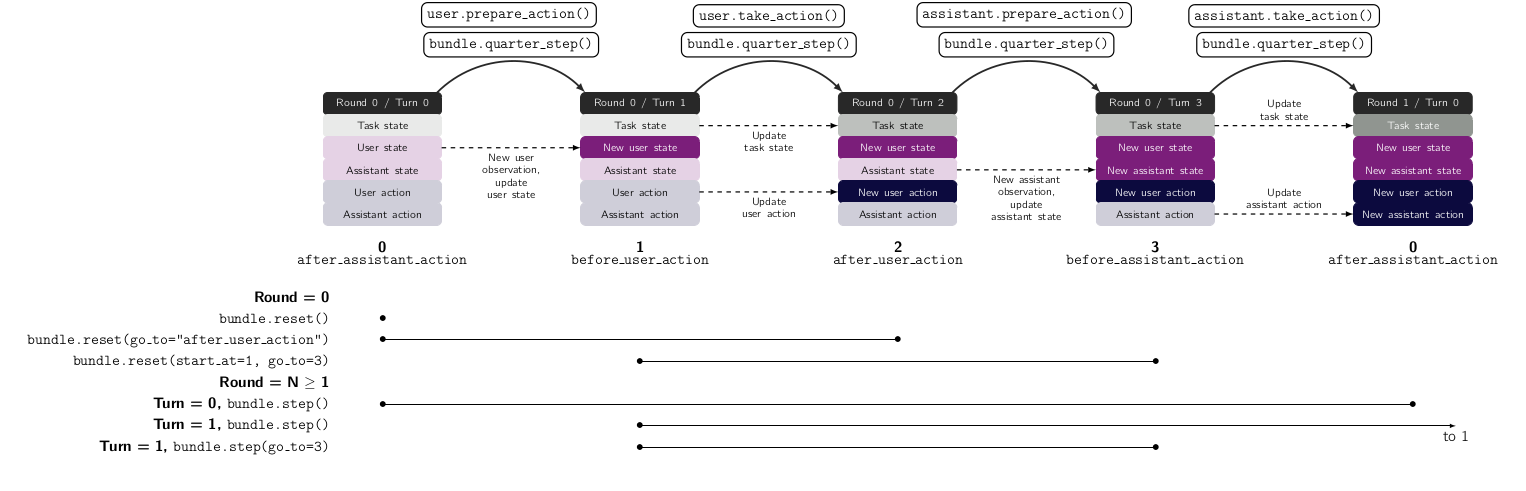
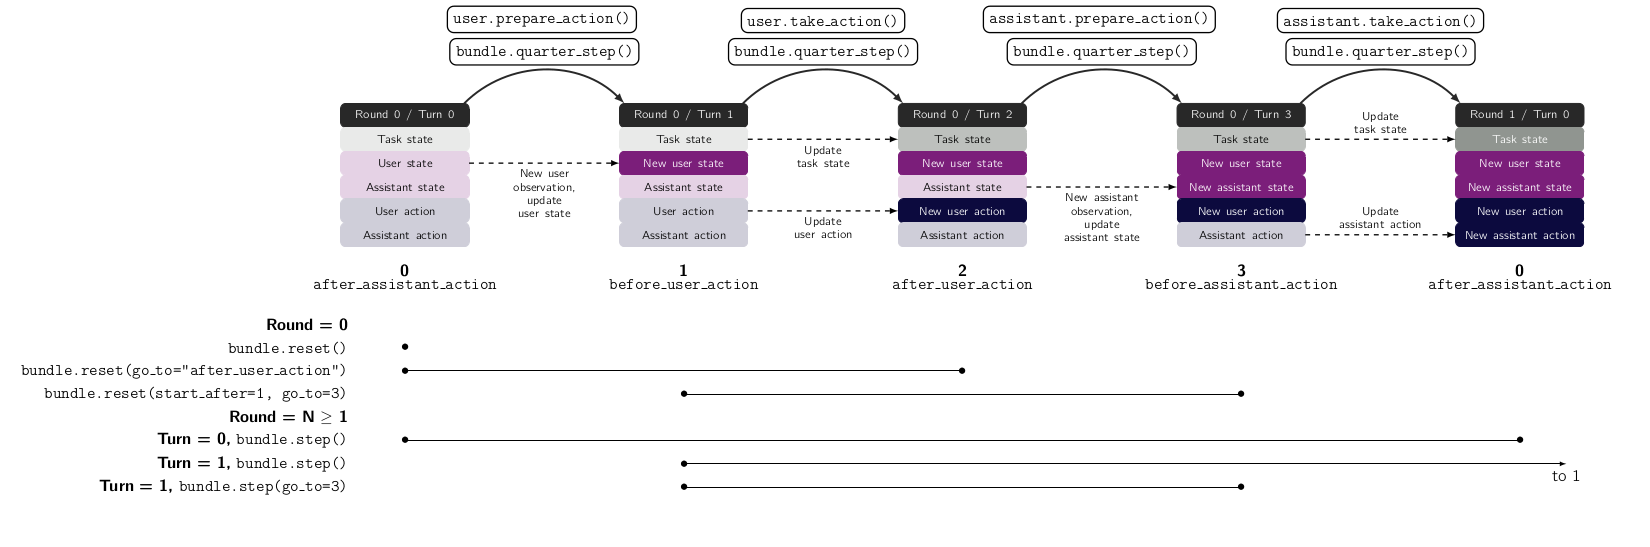
start_at renamed to start_after

diff --git a/coopihc/bundle/BaseBundle.py b/coopihc/bundle/BaseBundle.py
@@ -162,7 +162,7 @@ class BaseBundle:
     def reset(
         self,
         go_to=0,
-        start_at=0,
+        start_after=0,
         task=True,
         user=True,
         assistant=True,
@@ -196,8 +196,8 @@ class BaseBundle:
 
         :param turn: game turn number. Can also be set globally at the bundle level by passing the "reset_turn" keyword argument, defaults to 0
         :type turn: int, optional
-        :param start_at: which turn to start at (allows skipping some turns during reset), defaults to 0
-        :type start_at: int, optional
+        :param start_after: which turn to start at (allows skipping some turns during reset), defaults to 0
+        :type start_after: int, optional
         :param task: reset task?, defaults to True
         :type task: bool, optional
         :param user: reset user?, defaults to True
@@ -215,7 +215,7 @@ class BaseBundle:
         go_to = self.kwargs.get("reset_go_to", go_to)
         # skip_user_action = self.kwargs.get("reset_skip_user_action", skip_user_action)
         # if skip_user_action:
-        # start_at = 2
+        # start_after = 2
         random_reset = self.kwargs.get("random_reset", random_reset)
         # =============
 
@@ -244,26 +244,25 @@ class BaseBundle:
 
         if not isinstance(go_to, (numpy.integer, int)):
             go_to = self.turn_dict[go_to]
-        if not isinstance(start_at, (numpy.integer, int)):
-            start_at = self.turn_dict[start_at]
+        if not isinstance(start_after, (numpy.integer, int)):
+            start_after = self.turn_dict[start_after]
 
         self.turn_number = go_to
 
-        # go_to = max(go_to, start_at)
-        if go_to == 0 and start_at == 0:
+        if go_to == 0 and start_after + 1 == 0:
             return self.game_state
-        if start_at <= go_to:
-            if go_to >= 1 and start_at <= 1:
+        if start_after <= go_to:
+            if go_to >= 1 and start_after + 1 <= 1:
                 self._user_first_half_step()
-            if go_to >= 2 and start_at <= 2:
+            if go_to >= 2 and start_after + 1 <= 2:
                 user_action, _ = self.user.take_action(increment_turn=False)
                 self.user.action = user_action
                 self._user_second_half_step(user_action)
-            if go_to >= 3 and start_at <= 3:
+            if go_to >= 3 and start_after + 1 <= 3:
                 self._assistant_first_half_step()
         else:
             raise ValueError(
-                f"start_at ({start_at}) can not be after go_to ({go_to}). You can likely use a combination of reset and step to achieve what you are looking for"
+                f"start_after ({start_after}) can not be after go_to ({go_to}). You can likely use a combination of reset and step to achieve what you are looking for"
             )
 
         return self.game_state

diff --git a/docs/guide/tikz/turns.tex b/docs/guide/tikz/turns.tex
@@ -162,7 +162,7 @@
 	\draw (origin_0) + (-1,-5.5) node[left=1mm]{\textbf{\texttt{bundle.reset(go\textunderscore to="after\textunderscore user\textunderscore action")}}};
 	\draw (origin_0) + (0,-5.5) node{$\bullet$} -- ($(info_2) + (0,-5.5)$) node{$\bullet$};
 
-	\draw (origin_0) + (-1,-6) node[left=1mm]{\textbf{\texttt{bundle.reset(start\textunderscore at=1, go\textunderscore to=3)}}};
+	\draw (origin_0) + (-1,-6) node[left=1mm]{\textbf{\texttt{bundle.reset(start\textunderscore after=1, go\textunderscore to=3)}}};
 	\draw ($(info_1) + (0,-6)$) node{$\bullet$} -- ($(info_3) + (0,-6)$) node{$\bullet$};
 
 	\draw (origin_0) + (-1,-6.5) node[left=1mm]{\textbf{Round = N $\geq$ 1}};

diff --git a/test/components/bundle/test__bundle_exampletask_2baseagents.py b/test/components/bundle/test__bundle_exampletask_2baseagents.py
@@ -117,7 +117,7 @@ def test_reset_turn3():
 def test_reset_turn2_to_3():
     global bundle
 
-    bundle.reset(start_at=2, go_to=3)
+    bundle.reset(start_after=2, go_to=3)
 
     assert bundle.round_number == 0
     assert bundle.turn_number == 3
@@ -130,7 +130,7 @@ def test_reset_turn2_to_3():
 def test_reset_string():
     global bundle
 
-    bundle.reset(start_at="after_user_action", go_to="before_assistant_action")
+    bundle.reset(start_after="after_user_action", go_to="before_assistant_action")
 
     assert bundle.round_number == 0
     assert bundle.turn_number == 3

diff --git a/coopihc/examples/worked_out_examples/modules.py b/coopihc/examples/worked_out_examples/modules.py
@@ -49,7 +49,7 @@ oculomotornoise = 0.2
 # Define task, user model for Chen et al. and bundle together
 task = ChenEyePointingTask(fitts_W, fitts_D, dimension=1)
 user = ChenEye(perceptualnoise, oculomotornoise, dimension=1)
-obs_bundle = SinglePlayUserAuto(task, user, start_at_action=True)
+obs_bundle = SinglePlayUserAuto(task, user, start_after_action=True)
 
 
 # Wrap the bundle into an observation engine. To do so, subclass from WrapAsObservationEngine and redefine the observe method.
